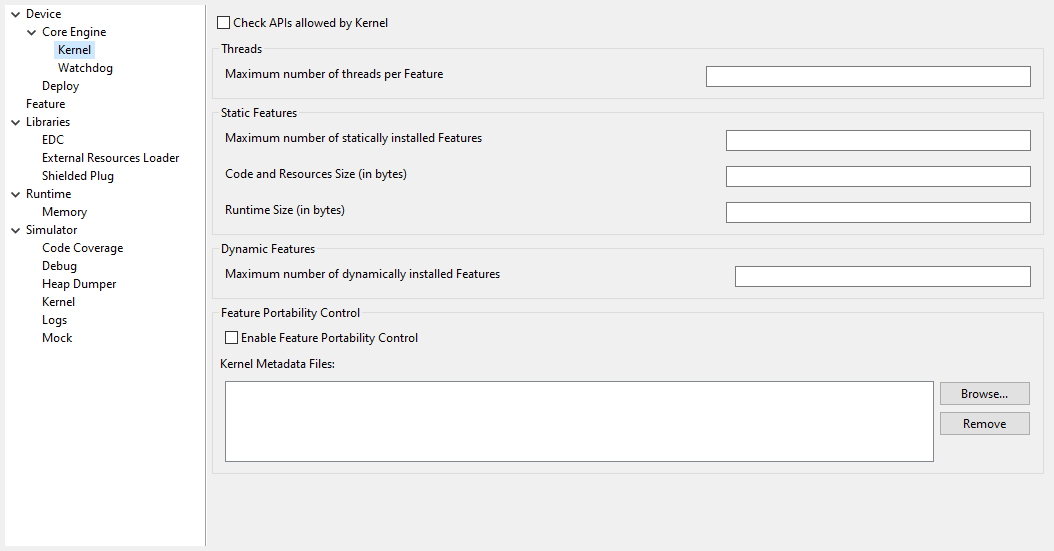
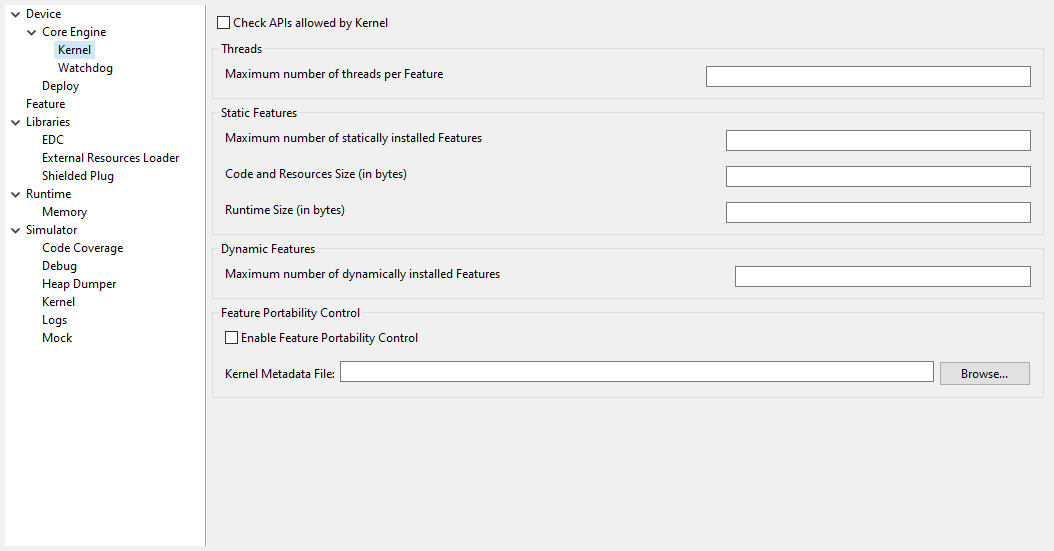
fix the option to a browse single file option

Changed region(s): [[0.8805, 0.6479, 0.9715, 0.8022], [0.2125, 0.6479, 0.334, 0.7096]]

diff --git a/ApplicationDeveloperGuide/sectionArchitectureOptions.rst b/ApplicationDeveloperGuide/sectionArchitectureOptions.rst
@@ -926,8 +926,8 @@ Option(checkbox): Enable Feature Portability Control
 
 *Default value*: ``false``
 
-Option(list): Kernel Metadata Files
-~~~~~~~~~~~~~~~~~~~~~~~~~~~~~~~~~~~
+Option(browse): Kernel Metadata File
+~~~~~~~~~~~~~~~~~~~~~~~~~~~~~~~~~~~~
 
 *Option Name*:
 ``com.microej.soar.kernel.featureportabilitycontrol.metadata.path``
@@ -936,8 +936,7 @@ Option(list): Kernel Metadata Files
 
 *Description*:
 
-Specifies the list of Kernel metadata files for Feature Portability Control.
-Features built on these Kernels can be installed on this Kernel.
+Specifies the path to the Kernel metadata file for Feature Portability Control.
 
 Category: Watchdog
 ^^^^^^^^^^^^^^^^^^
